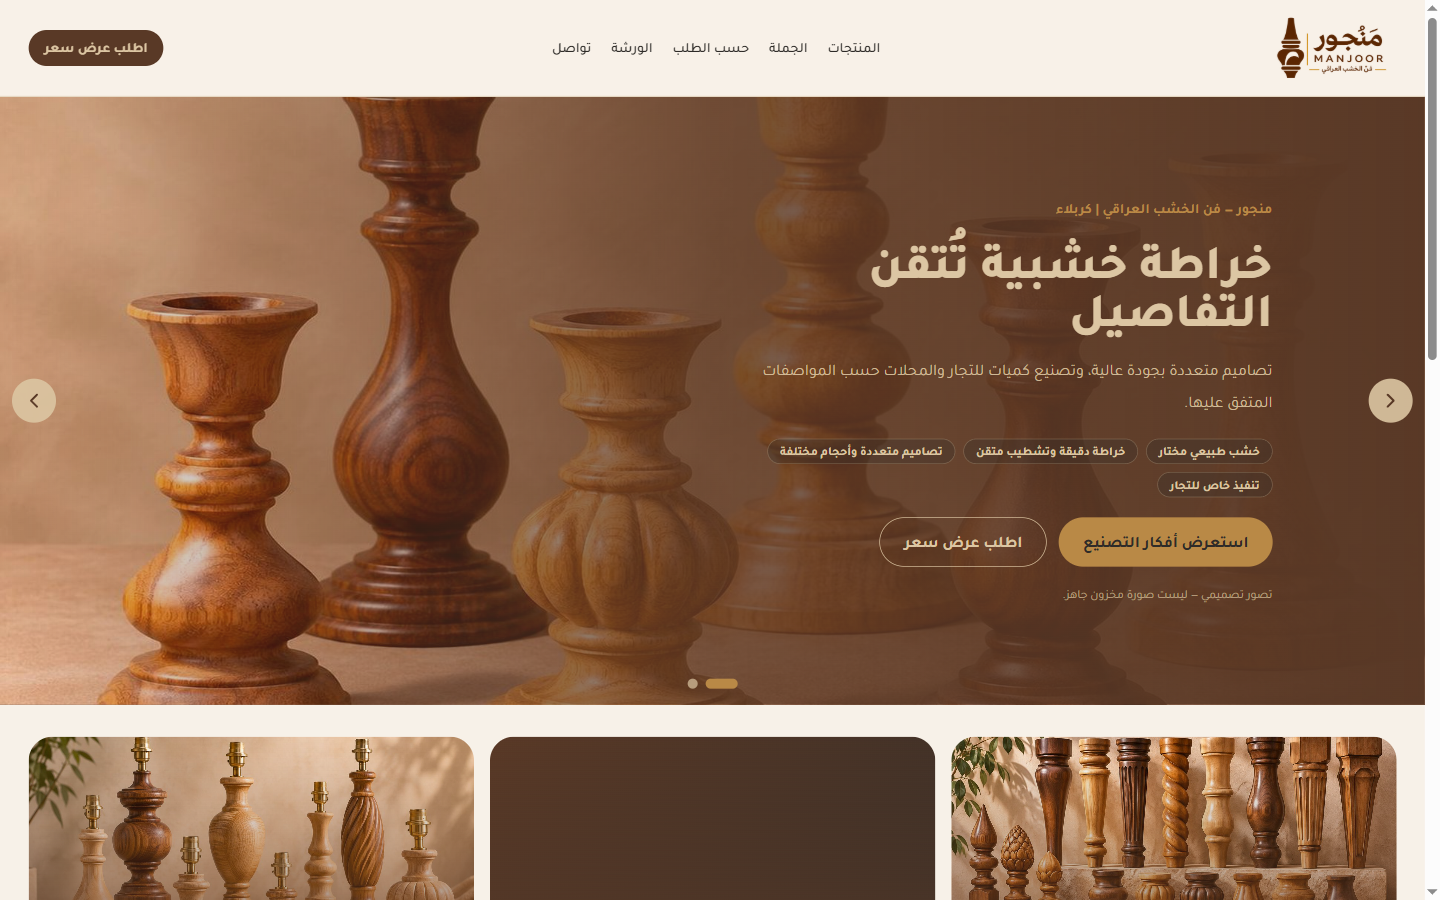
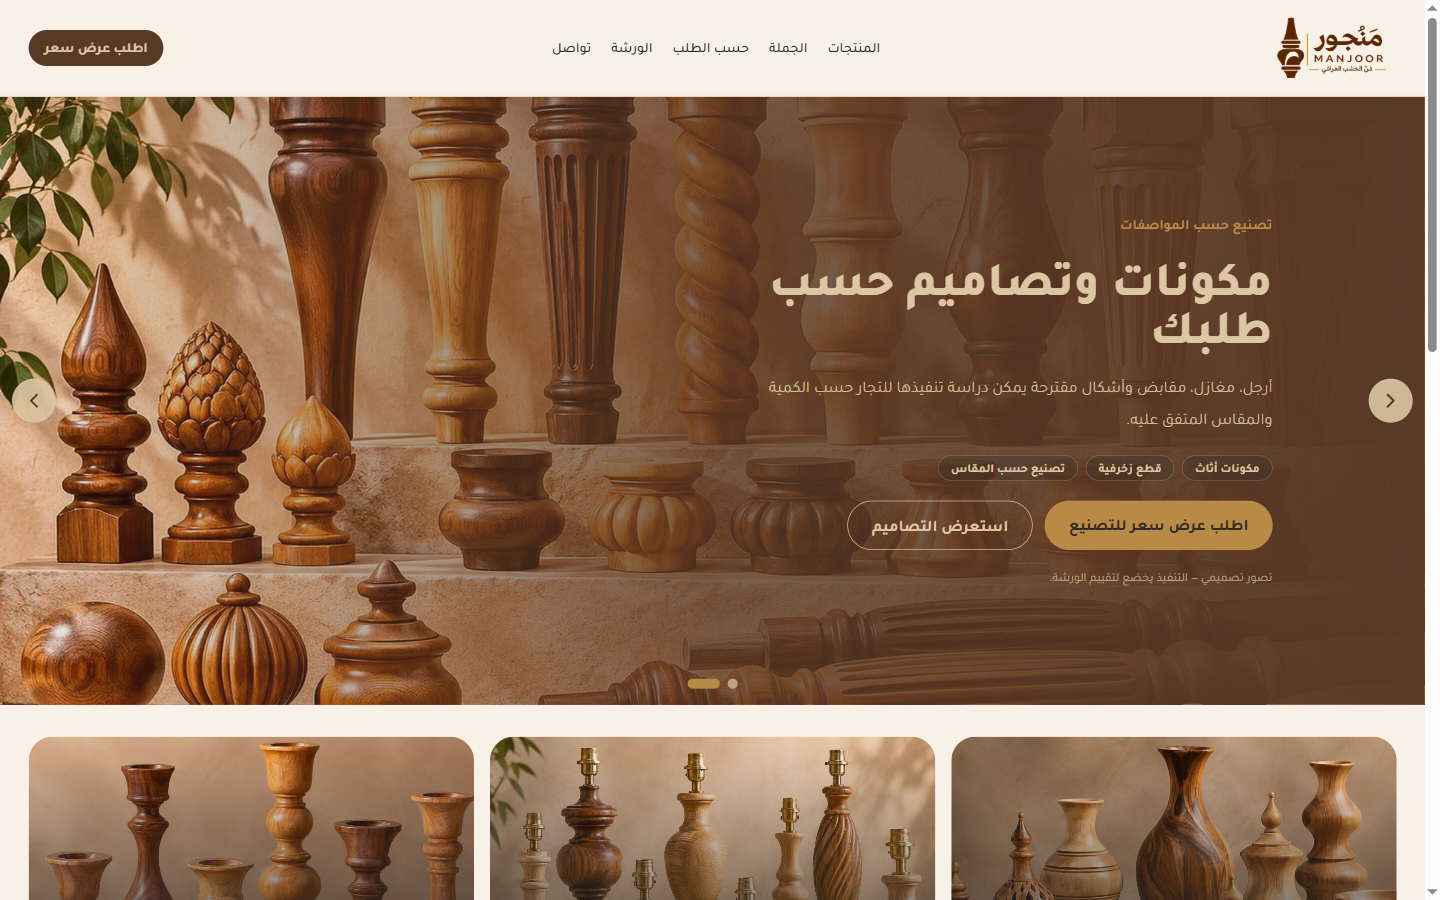
Give each homepage surface a distinct conceptual image so the empty category tile is gone.

diff --git a/src/content/hero.ts b/src/content/hero.ts
@@ -57,9 +57,9 @@ const PUBLIC_SLIDES: HeroSlide[] = [
     imageHeight: 980,
     objectPosition: "center 35%",
     kicker: "منجور — فن الخشب العراقي | كربلاء",
-    title: "خراطة خشبية تُتقن التفاصيل",
-    body: "تصاميم متعددة بجودة عالية، وتصنيع كميات للتجار والمحلات حسب المواصفات المتفق عليها.",
-    chips: ["خشب طبيعي مختار", "خراطة دقيقة وتشطيب متقن", "تصاميم متعددة وأحجام مختلفة", "تنفيذ خاص للتجار"],
+    title: "خراطة تُظهر عرق الخشب",
+    body: "دقة التشكيل على المخرطة، وتشطيب يُبرز ملمس الخشب الطبيعي. الصورة تصور تفصيلاً تصميمياً وليست لقطة من داخل الورشة.",
+    chips: ["ملمس الخشب", "دقة الخراطة", "تشطيب متقن"],
     primary: { label: "استعرض أفكار التصنيع", href: "/custom-orders" },
     secondary: { label: "اطلب عرض سعر", href: "/request-quote" },
     caption: "تصور تصميمي — ليست صورة مخزون جاهز.",
@@ -74,9 +74,9 @@ const PUBLIC_SLIDES: HeroSlide[] = [
     imageHeight: 980,
     objectPosition: "center 45%",
     kicker: "تصنيع حسب المواصفات",
-    title: "من فكرتك... نصنع قطعة مميزة",
-    body: "نماذج تصميمية لأوعية ومكونات خشبية يمكن دراسة تنفيذها حسب طلبك والكمية المطلوبة.",
-    chips: ["أوعية وعلب", "مكونات أثاث", "إضاءة وعرض"],
+    title: "مكونات وتصاميم حسب طلبك",
+    body: "أرجل، مغازل، مقابض وأشكال مقترحة يمكن دراسة تنفيذها للتجار حسب الكمية والمقاس المتفق عليه.",
+    chips: ["مكونات أثاث", "قطع زخرفية", "تصنيع حسب المقاس"],
     primary: { label: "اطلب عرض سعر للتصنيع", href: "/request-quote" },
     secondary: { label: "استعرض التصاميم", href: "/custom-orders" },
     caption: "تصور تصميمي — التنفيذ يخضع لتقييم الورشة.",
@@ -87,24 +87,25 @@ export const HOMEPAGE_SPOTLIGHTS: Array<{
   title: string;
   subtitle: string;
   href: string;
-  image?: string;
+  image: string;
 }> = [
   {
-    title: "مكونات الأثاث",
-    subtitle: "أرجل، مغازل، وقطع زخرفية",
-    href: "/custom-orders",
-    image: "/concepts/furniture-components.jpg",
-  },
-  {
     title: "أوعية وتحف ديكورية",
-    subtitle: "أطباق، علب، ومزهريات خشبية",
+    subtitle: "مزهريات، علب، وأوعية مخرطة",
     href: "/custom-orders",
+    image: "/concepts/vases-ornaments.jpg",
   },
   {
     title: "إكسسوارات الإضاءة",
-    subtitle: "شمعدانات وقواعد مصابيح",
+    subtitle: "قواعد مصابيح يمكن دراسة تنفيذها",
     href: "/custom-orders",
     image: "/concepts/lamp-bases.jpg",
+  },
+  {
+    title: "شمعدانات مخرطة",
+    subtitle: "أشكال عرض وإضاءة شمعية",
+    href: "/custom-orders",
+    image: "/concepts/candlesticks.jpg",
   },
 ];
 

diff --git a/src/pages/marketing/HomePage.tsx b/src/pages/marketing/HomePage.tsx
@@ -22,7 +22,7 @@ export default function HomePage() {
   return (
     <MarketingShell>
       <Seo
-        title="خراطة خشبية تُتقن التفاصيل"
+        title="خراطة تُظهر عرق الخشب"
         description="خراطة وصناعة قطع خشبية في كربلاء، وتنفيذ تصاميم خاصة للتجار وأصحاب المشاريع حسب المواصفات والكميات المطلوبة."
         path="/"
       />
@@ -31,16 +31,24 @@ export default function HomePage() {
 
       <section className="container grid gap-4 py-8 md:grid-cols-3">
         {HOMEPAGE_SPOTLIGHTS.map((item) => (
-          <Link key={item.title} to={item.href} className="card-lift group relative overflow-hidden rounded-3xl bg-manjoor-walnut text-manjoor-sand">
-            {item.image ? (
-              <img src={item.image} alt="" width={1400} height={933} className="aspect-[16/10] w-full object-cover transition duration-500 group-hover:scale-105 motion-reduce:transition-none" />
-            ) : (
-              <div className="aspect-[16/10] w-full bg-gradient-to-br from-manjoor-walnut to-manjoor-charcoal" />
-            )}
-            <div className="absolute inset-0 bg-gradient-to-t from-manjoor-walnut via-manjoor-walnut/40 to-transparent" />
-            <div className="absolute inset-x-0 bottom-0 p-4">
-              <h2 className="text-lg font-extrabold">{item.title}</h2>
-              <p className="mt-1 text-sm text-manjoor-sand/85">{item.subtitle}</p>
+          <Link
+            key={item.title}
+            to={item.href}
+            aria-label={`${item.title} — استعرض أفكار التصنيع`}
+            className="card-lift group relative overflow-hidden rounded-3xl bg-manjoor-charcoal text-manjoor-sand"
+          >
+            <img
+              src={item.image}
+              alt=""
+              width={1400}
+              height={933}
+              className="aspect-[4/3] w-full object-cover transition duration-500 group-hover:scale-105 motion-reduce:transition-none"
+            />
+            <div className="absolute inset-0 bg-gradient-to-t from-manjoor-charcoal via-manjoor-charcoal/55 to-transparent" />
+            <div className="absolute inset-x-0 bottom-0 space-y-1 p-4">
+              <h2 className="text-lg font-extrabold drop-shadow">{item.title}</h2>
+              <p className="text-sm leading-6 text-manjoor-sand/90">{item.subtitle}</p>
+              <span className="inline-block text-xs font-bold text-manjoor-brass">استعرض الأفكار</span>
             </div>
           </Link>
         ))}

diff --git a/src/content/hero.test.ts b/src/content/hero.test.ts
@@ -20,10 +20,13 @@ describe("homepage hero slides", () => {
     expect(publicHeroSlides().every((item) => item.image.startsWith("/concepts/") && !item.image.includes("photo"))).toBe(true);
   });
 
-  it("keeps homepage spotlights to three distinct destinations without repeating every concept card", () => {
+  it("gives every spotlight a unique image that is not reused as a hero frame", () => {
     expect(HOMEPAGE_SPOTLIGHTS).toHaveLength(3);
-    const images = HOMEPAGE_SPOTLIGHTS.map((item) => item.image).filter((value): value is string => Boolean(value));
-    expect(new Set(images).size).toBe(images.length);
-    expect(images.every((image) => !image.startsWith("/photo/"))).toBe(true);
+    expect(HOMEPAGE_SPOTLIGHTS.every((item) => item.image.length > 0)).toBe(true);
+    const spotlightImages = HOMEPAGE_SPOTLIGHTS.map((item) => item.image);
+    expect(new Set(spotlightImages).size).toBe(3);
+    const heroImages = publicHeroSlides().map((item) => item.image);
+    expect(spotlightImages.some((image) => heroImages.includes(image))).toBe(false);
+    expect(heroImages[0]).not.toBe(heroImages[1]);
   });
 });

diff --git a/docs/phase-03/HERO_CAROUSEL.md b/docs/phase-03/HERO_CAROUSEL.md
@@ -6,8 +6,8 @@ Stacked on PR #5 (`feat/manjoor-visual-excellence`).
 
 | Slide | Theme | Asset | Kind | Primary CTA |
 |---|---|---|---|---|
-| A | Craftsmanship | `/concepts/hero/craftsmanship.jpg` from `candlesticks.jpg` | Conceptual illustration | `/custom-orders` |
-| B | Custom woodwork | `/concepts/hero/custom-woodwork.jpg` from `vases-ornaments.jpg` | Conceptual illustration | `/request-quote` |
+| A | Craftsmanship | `/concepts/hero/craftsmanship.jpg` — tight grain/turned-profile crop of `candlesticks.jpg` | Conceptual illustration | `/custom-orders` |
+| B | Custom woodwork | `/concepts/hero/custom-woodwork.jpg` from `furniture-components.jpg` | Conceptual illustration | `/request-quote` |
 
 Slide C (`workshop-products`) is coded but **disabled**. `VITE_ENABLE_WORKSHOP_PRODUCT_PROMO` defaults false and the slide has no image path. `photo/` remains unpublished.
 
@@ -23,7 +23,7 @@ The attached UI mockup (hookah-stem headline «بكار أراكيل خشبي»)
 
 ## Homepage imagery (no four-photo repetition)
 
-Hero uses candlesticks + vases. Spotlights use furniture-components, a typographic vessels card, and lamp-bases. The ten-concept gallery stays on `/custom-orders`.
+Hero A is a grain close-up (not a product lineup). Hero B is the furniture-component collection. Spotlight cards use `vases-ornaments`, `lamp-bases`, and the full `candlesticks` group — no empty walnut tile, and none of those files is reused as a hero frame. The ten-concept gallery stays on `/custom-orders`.
 
 ## Image processing
 
